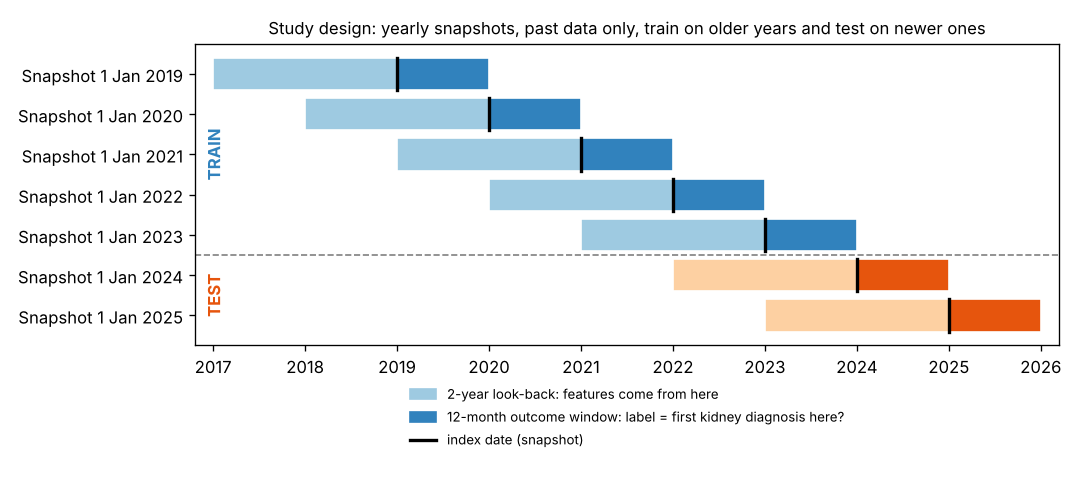
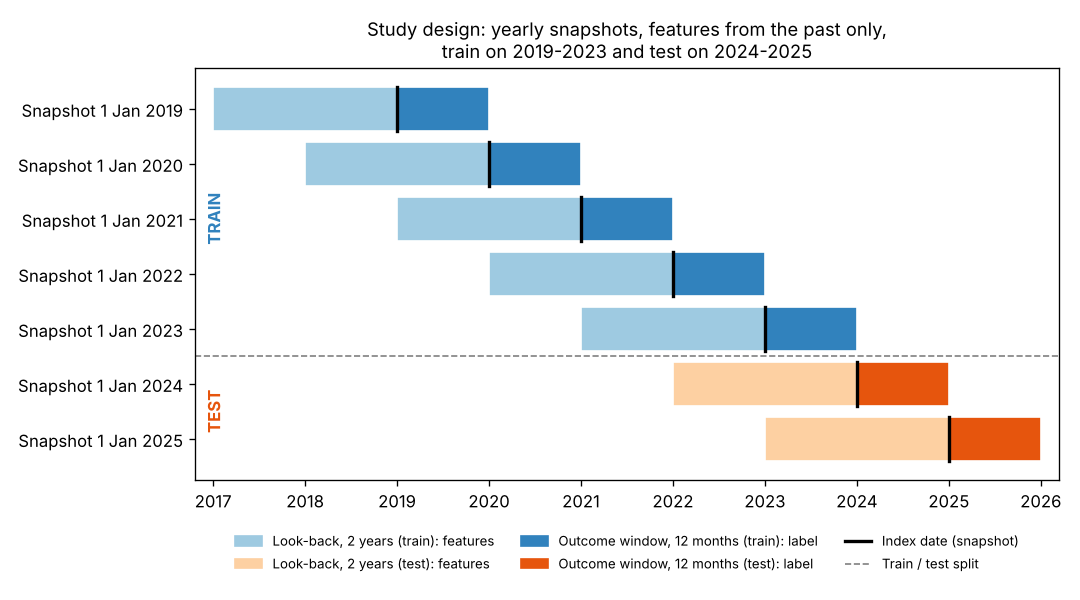
study_design.py file modificaiton and README changes

diff --git a/make_study_design.py b/make_study_design.py
@@ -1,0 +1,59 @@
+# draws reports/study_design.png (the picture of the snapshot set-up used in the readme)
+# only needs to be run again if the years or windows change
+
+import os
+
+import matplotlib
+matplotlib.use("Agg")
+import matplotlib.pyplot as plt
+from matplotlib.lines import Line2D
+from matplotlib.patches import Patch
+
+import settings
+
+# colours: light = look-back window, dark = outcome window, blue = train, orange = test
+TRAIN_LOOKBACK, TRAIN_OUTCOME = "#9ecae1", "#3182bd"
+TEST_LOOKBACK, TEST_OUTCOME = "#fdd0a2", "#e6550d"
+
+years = list(range(2019, 2026))
+
+fig, ax = plt.subplots(figsize=(9, 5))
+
+for row, year in enumerate(years):
+    test = year >= 2024
+    # 2 years before the index date
+    ax.barh(row, 2, left=year - 2, color=TEST_LOOKBACK if test else TRAIN_LOOKBACK, edgecolor="white")
+    # 12 months after
+    ax.barh(row, 1, left=year, color=TEST_OUTCOME if test else TRAIN_OUTCOME, edgecolor="white")
+    # index date
+    ax.plot([year, year], [row - 0.4, row + 0.4], color="black", linewidth=2)
+
+ax.set_yticks(range(len(years)))
+ax.set_yticklabels(["Snapshot 1 Jan %d" % y for y in years])
+ax.invert_yaxis()   # 2019 on top
+ax.set_xlim(2016.8, 2026.2)
+ax.set_xticks(range(2017, 2027))
+
+# line between the train snapshots (2019-2023) and the test snapshots (2024-2025)
+ax.axhline(4.5, color="grey", linestyle="--", linewidth=1)
+ax.text(2016.9, 2.0, "TRAIN", rotation=90, va="center", fontsize=10, color=TRAIN_OUTCOME, fontweight="bold")
+ax.text(2016.9, 5.5, "TEST", rotation=90, va="center", fontsize=10, color=TEST_OUTCOME, fontweight="bold")
+
+ax.set_title("Study design: yearly snapshots, features from the past only,\n"
+             "train on 2019-2023 and test on 2024-2025", fontsize=11)
+
+# legend: 3 columns -> (look-back train, look-back test), (outcome train, outcome test), (index date, split)
+legend_items = [
+    Patch(color=TRAIN_LOOKBACK, label="Look-back, 2 years (train): features"),
+    Patch(color=TEST_LOOKBACK, label="Look-back, 2 years (test): features"),
+    Patch(color=TRAIN_OUTCOME, label="Outcome window, 12 months (train): label"),
+    Patch(color=TEST_OUTCOME, label="Outcome window, 12 months (test): label"),
+    Line2D([0], [0], color="black", linewidth=2, label="Index date (snapshot)"),
+    Line2D([0], [0], color="grey", linewidth=1, linestyle="--", label="Train / test split"),
+]
+ax.legend(handles=legend_items, loc="upper center", bbox_to_anchor=(0.5, -0.1),
+          ncol=3, fontsize=8, frameon=False)
+
+fig.tight_layout()
+fig.savefig(os.path.join(settings.REPORTS_DIR, "study_design.png"), dpi=120)
+print("saved reports/study_design.png")

diff --git a/README.md b/README.md
@@ -3,9 +3,8 @@
 Can routine health records flag adults who will be **diagnosed with chronic kidney disease in the next
 12 months**, so they can be tested and treated earlier?
 
-[The data is synthetic, made with [Synthea](https://github.com/synthetichealth/synthea), so no real patients
+The data is synthetic, made with [Synthea](https://github.com/synthetichealth/synthea), so no real patients
 are involved. It has the same structure as real health records: patients, visits, diagnoses, lab results and medicines.
-]
 
 **Short answer: partly yes.** On synthetic data, a simple model ranks patients well enough to be useful,
 but it can't pick out individual patients with high certainty.
@@ -40,6 +39,8 @@ flowchart LR
 | 4 | `step4_insights.py` | Diagnostic delay, cases found per review effort, `reports/summary.md` |
 | - | `run_all.py` | Steps 1-4 in order |
 | - | `app.py` | Streamlit dashboard |
+| - | `open_mlflow.py` | Opens the MLflow page in the browser |
+| - | `make_study_design.py` | Draws the study design picture below |
 | - | `notebooks/explore.ipynb` | First look at the data |
 | - | `tests/test_no_leakage.py` | Checks that no future information leaks into the features |
 
@@ -105,7 +106,7 @@ and reproduced (`python open_mlflow.py`).
    ```
 4. `python run_all.py`
 5. `pytest`
-6. `mlflow ui --backend-store-uri sqlite:///mlflow.db` and `streamlit run app.py`
+6. `python open_mlflow.py` (MLflow runs) and `streamlit run app.py` (dashboard)
 
 ## Limitations
 - Synthetic data follows rules, so it is cleaner than real records. The method transfers; the numbers do not.
